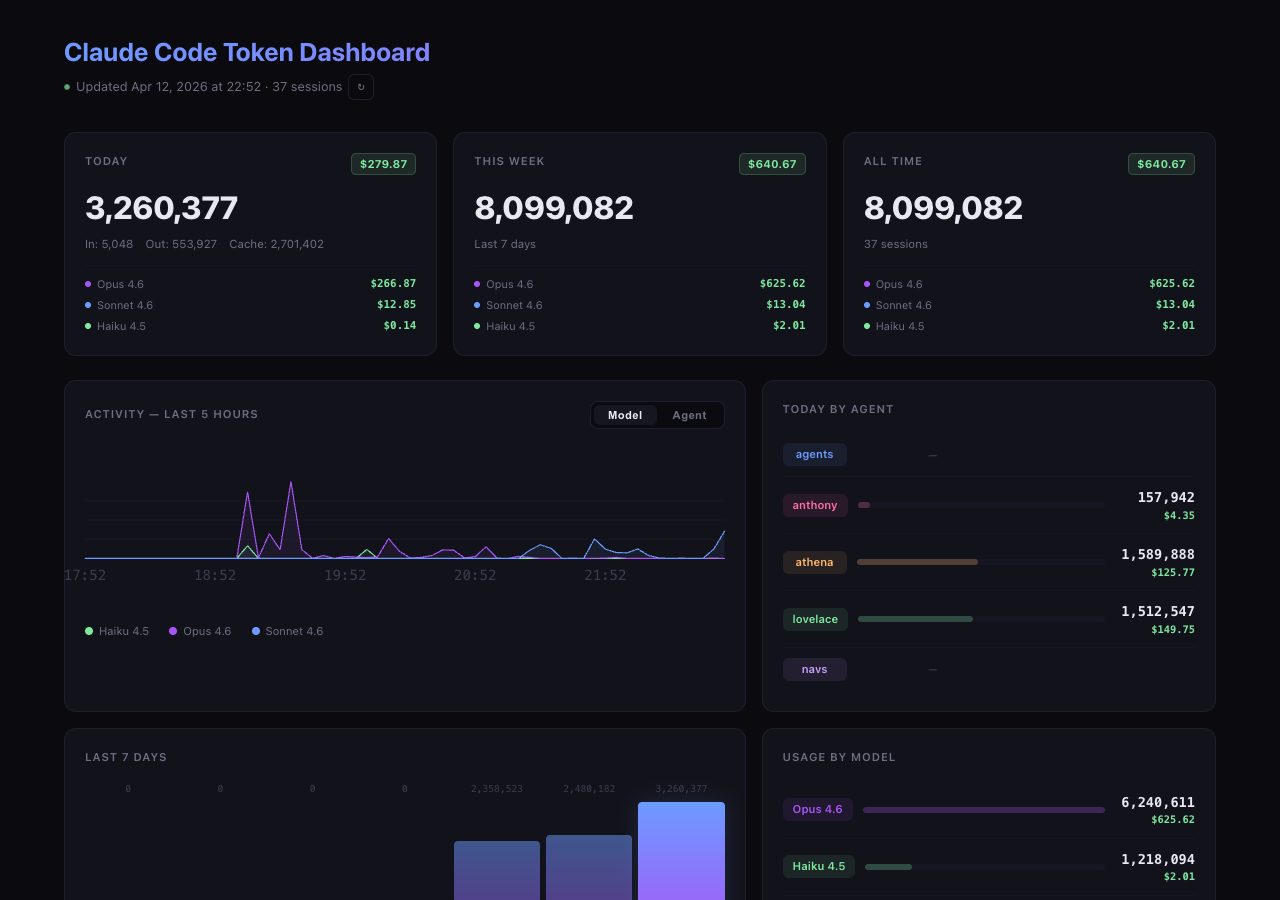
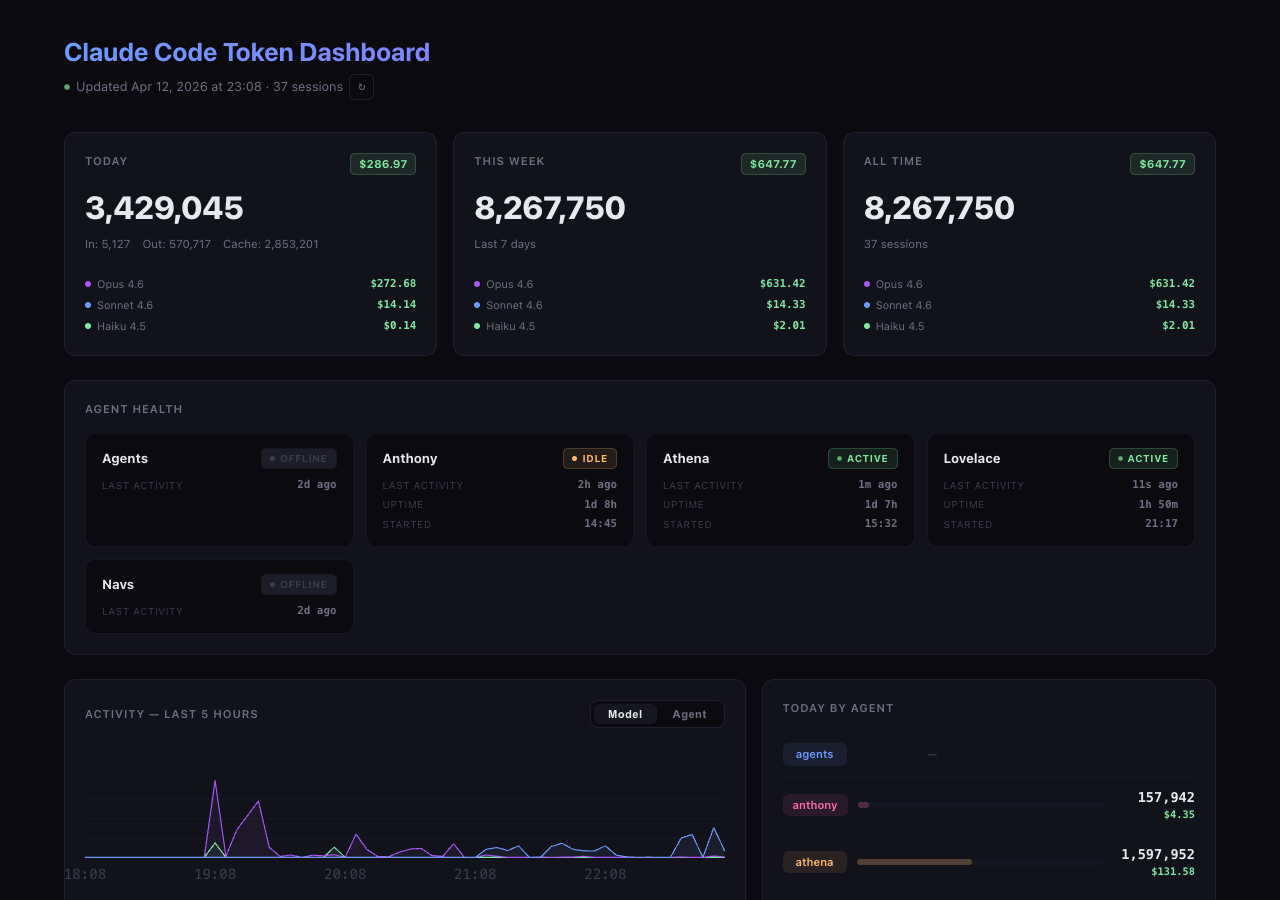
Add Agent Health Monitor card to dashboard
- New section between stat cards and main grid showing real-time agent status
- Reads active tmux sessions via `tmux list-sessions` for online/offline detection
- Derives last activity per agent from JSONL file modification times
- Status logic: active = activity within 10 min, idle = tmux up but quiet, offline = no tmux session
- Shows: status badge (active/idle/offline) with pulsing dot, last activity ago, uptime, session start time
- Fully reactive — updates on every 5-min poll in server mode
- stdlib only (subprocess); no new dependencies

diff --git a/dashboard.py b/dashboard.py
@@ -15,6 +15,7 @@ import json
 import os
 import glob
 import argparse
+import subprocess
 import webbrowser
 from datetime import datetime, timedelta, timezone
 from collections import defaultdict
@@ -206,6 +207,110 @@ def _entry_cost(model, input_t, output_t, cache_read_t, cache_write_t):
         (cache_read_t / 1_000_000) * p["input"] * 0.10 +
         (cache_write_t/ 1_000_000) * p["input"] * 1.25
     )
+
+
+# ---------------------------------------------------------------------------
+# Agent health monitoring
+# ---------------------------------------------------------------------------
+
+IDLE_THRESHOLD_MINUTES = 10
+
+
+def _fmt_uptime(seconds):
+    """Format a duration in seconds to a human-readable uptime string."""
+    if seconds < 60:
+        return f"{seconds}s"
+    if seconds < 3600:
+        return f"{seconds // 60}m"
+    if seconds < 86400:
+        h, m = divmod(seconds, 3600)
+        return f"{h}h {m // 60}m"
+    d, rem = divmod(seconds, 86400)
+    return f"{d}d {rem // 3600}h"
+
+
+def _fmt_ago(dt, now):
+    """Format a datetime as 'Xs/Xm/Xh ago'."""
+    secs = int((now - dt).total_seconds())
+    if secs < 0:
+        return "just now"
+    if secs < 60:
+        return f"{secs}s ago"
+    if secs < 3600:
+        return f"{secs // 60}m ago"
+    if secs < 86400:
+        return f"{secs // 3600}h ago"
+    return f"{secs // 86400}d ago"
+
+
+def collect_agent_health():
+    """Return a list of agent health records from tmux sessions and JSONL activity."""
+    now = datetime.now().astimezone()
+
+    # --- tmux sessions ---
+    tmux_sessions = {}
+    try:
+        result = subprocess.run(
+            ["tmux", "list-sessions", "-F", "#{session_name}:#{session_created}"],
+            capture_output=True, text=True, timeout=5,
+        )
+        for line in result.stdout.strip().splitlines():
+            if ":" in line:
+                name, epoch_str = line.split(":", 1)
+                try:
+                    created = datetime.fromtimestamp(int(epoch_str)).astimezone()
+                except (ValueError, OSError):
+                    created = None
+                tmux_sessions[name] = {"created": created}
+    except (FileNotFoundError, subprocess.TimeoutExpired, OSError):
+        pass
+
+    # --- Last activity per agent from JSONL mtime ---
+    agent_last_activity = {}
+    pattern = os.path.join(PROJECTS_DIR, "**", "*.jsonl")
+    for filepath in glob.glob(pattern, recursive=True):
+        agent = detect_agent(filepath)
+        if agent == "default":
+            continue
+        try:
+            mtime = datetime.fromtimestamp(os.path.getmtime(filepath)).astimezone()
+            if agent not in agent_last_activity or mtime > agent_last_activity[agent]:
+                agent_last_activity[agent] = mtime
+        except OSError:
+            pass
+
+    # --- Merge: all known agents from either source ---
+    all_names = sorted(set(tmux_sessions) | set(agent_last_activity))
+
+    records = []
+    for name in all_names:
+        last_activity = agent_last_activity.get(name)
+        tmux_info = tmux_sessions.get(name)
+
+        if tmux_info is None:
+            status = "offline"
+        elif last_activity is None:
+            status = "idle"
+        else:
+            minutes_since = (now - last_activity).total_seconds() / 60
+            status = "active" if minutes_since <= IDLE_THRESHOLD_MINUTES else "idle"
+
+        uptime = None
+        session_started = None
+        if tmux_info and tmux_info["created"]:
+            uptime = _fmt_uptime(int((now - tmux_info["created"]).total_seconds()))
+            session_started = tmux_info["created"].strftime("%H:%M")
+
+        records.append({
+            "name": name,
+            "status": status,
+            "last_activity": last_activity.strftime("%H:%M:%S") if last_activity else None,
+            "last_activity_ago": _fmt_ago(last_activity, now) if last_activity else None,
+            "uptime": uptime,
+            "session_started": session_started,
+        })
+
+    return records
 
 
 # ---------------------------------------------------------------------------
@@ -460,6 +565,7 @@ def compute_dashboard_data(sessions):
         "updated": now.strftime("%b %d, %Y at %H:%M"),
         "agent_colors": agent_colors,
         "line": compute_line_data(sessions),
+        "agent_health": collect_agent_health(),
     }
 
 
@@ -794,10 +900,108 @@ _HTML_TEMPLATE = '''<!DOCTYPE html>
     .bold { font-weight: 700; color: var(--text-primary); }
     .cost-cell { color: #7ee8a0; font-weight: 600; }
 
+    /* Agent Health Monitor */
+    .health-card {
+        background: var(--bg-card);
+        border: 1px solid var(--border);
+        border-radius: 12px;
+        padding: 20px;
+        margin-bottom: 24px;
+    }
+    .health-grid {
+        display: grid;
+        grid-template-columns: repeat(auto-fill, minmax(220px, 1fr));
+        gap: 12px;
+        margin-top: 4px;
+    }
+    .health-agent {
+        background: var(--bg-primary);
+        border: 1px solid var(--border-subtle);
+        border-radius: 10px;
+        padding: 14px 16px;
+        display: flex;
+        flex-direction: column;
+        gap: 8px;
+        transition: border-color 0.2s;
+    }
+    .health-agent:hover { border-color: var(--border); }
+    .health-agent-head {
+        display: flex;
+        align-items: center;
+        justify-content: space-between;
+        gap: 8px;
+    }
+    .health-agent-name {
+        font-size: 0.82rem;
+        font-weight: 700;
+        color: var(--text-primary);
+        text-transform: capitalize;
+    }
+    .health-status {
+        display: flex;
+        align-items: center;
+        gap: 5px;
+        padding: 2px 8px;
+        border-radius: 5px;
+        font-size: 0.62rem;
+        font-weight: 700;
+        text-transform: uppercase;
+        letter-spacing: 0.06em;
+        white-space: nowrap;
+    }
+    .health-status-dot {
+        width: 5px;
+        height: 5px;
+        border-radius: 50%;
+        flex-shrink: 0;
+    }
+    .health-status.active {
+        background: rgba(126, 232, 160, 0.1);
+        color: #7ee8a0;
+        border: 1px solid rgba(126, 232, 160, 0.2);
+    }
+    .health-status.active .health-status-dot { background: #7ee8a0; animation: livepulse 2.4s ease-in-out infinite; }
+    .health-status.idle {
+        background: rgba(255, 184, 108, 0.1);
+        color: #ffb86c;
+        border: 1px solid rgba(255, 184, 108, 0.2);
+    }
+    .health-status.idle .health-status-dot { background: #ffb86c; }
+    .health-status.offline {
+        background: rgba(58, 58, 74, 0.4);
+        color: var(--text-dim);
+        border: 1px solid var(--border-subtle);
+    }
+    .health-status.offline .health-status-dot { background: var(--text-dim); }
+    .health-meta {
+        display: flex;
+        flex-direction: column;
+        gap: 3px;
+    }
+    .health-meta-row {
+        display: flex;
+        justify-content: space-between;
+        align-items: center;
+        gap: 8px;
+    }
+    .health-meta-label {
+        font-size: 0.62rem;
+        color: var(--text-dim);
+        text-transform: uppercase;
+        letter-spacing: 0.06em;
+    }
+    .health-meta-val {
+        font-size: 0.68rem;
+        font-weight: 600;
+        color: var(--text-secondary);
+        font-family: 'SF Mono', 'Fira Code', monospace;
+    }
+
     @media (max-width: 768px) {
         .stats-grid { grid-template-columns: 1fr; }
         .main-grid { grid-template-columns: 1fr; }
         .stat-value { font-size: 1.5rem; }
+        .health-grid { grid-template-columns: 1fr 1fr; }
     }
 </style>
 </head>
@@ -862,6 +1066,40 @@ _HTML_TEMPLATE = '''<!DOCTYPE html>
                     <span class="model-cost-dot" :style="{ background: mc.color }"></span>
                     <span class="model-cost-name">{{ mc.short }}</span>
                     <span class="model-cost-val">{{ fmtCost(mc.cost) }}</span>
+                </div>
+            </div>
+        </div>
+    </div>
+
+    <!-- Agent Health Monitor -->
+    <div class="health-card" v-if="agent_health && agent_health.length">
+        <div class="card-title">Agent Health</div>
+        <div class="health-grid">
+            <div v-for="agent in agent_health" :key="agent.name" class="health-agent">
+                <div class="health-agent-head">
+                    <span class="health-agent-name">{{ agent.name }}</span>
+                    <span class="health-status" :class="agent.status">
+                        <span class="health-status-dot"></span>
+                        {{ agent.status }}
+                    </span>
+                </div>
+                <div class="health-meta">
+                    <div class="health-meta-row" v-if="agent.last_activity_ago">
+                        <span class="health-meta-label">Last activity</span>
+                        <span class="health-meta-val">{{ agent.last_activity_ago }}</span>
+                    </div>
+                    <div class="health-meta-row" v-else-if="agent.status === 'offline'">
+                        <span class="health-meta-label">Last activity</span>
+                        <span class="health-meta-val" style="color: var(--text-dim)">\u2014</span>
+                    </div>
+                    <div class="health-meta-row" v-if="agent.uptime">
+                        <span class="health-meta-label">Uptime</span>
+                        <span class="health-meta-val">{{ agent.uptime }}</span>
+                    </div>
+                    <div class="health-meta-row" v-if="agent.session_started">
+                        <span class="health-meta-label">Started</span>
+                        <span class="health-meta-val">{{ agent.session_started }}</span>
+                    </div>
                 </div>
             </div>
         </div>
